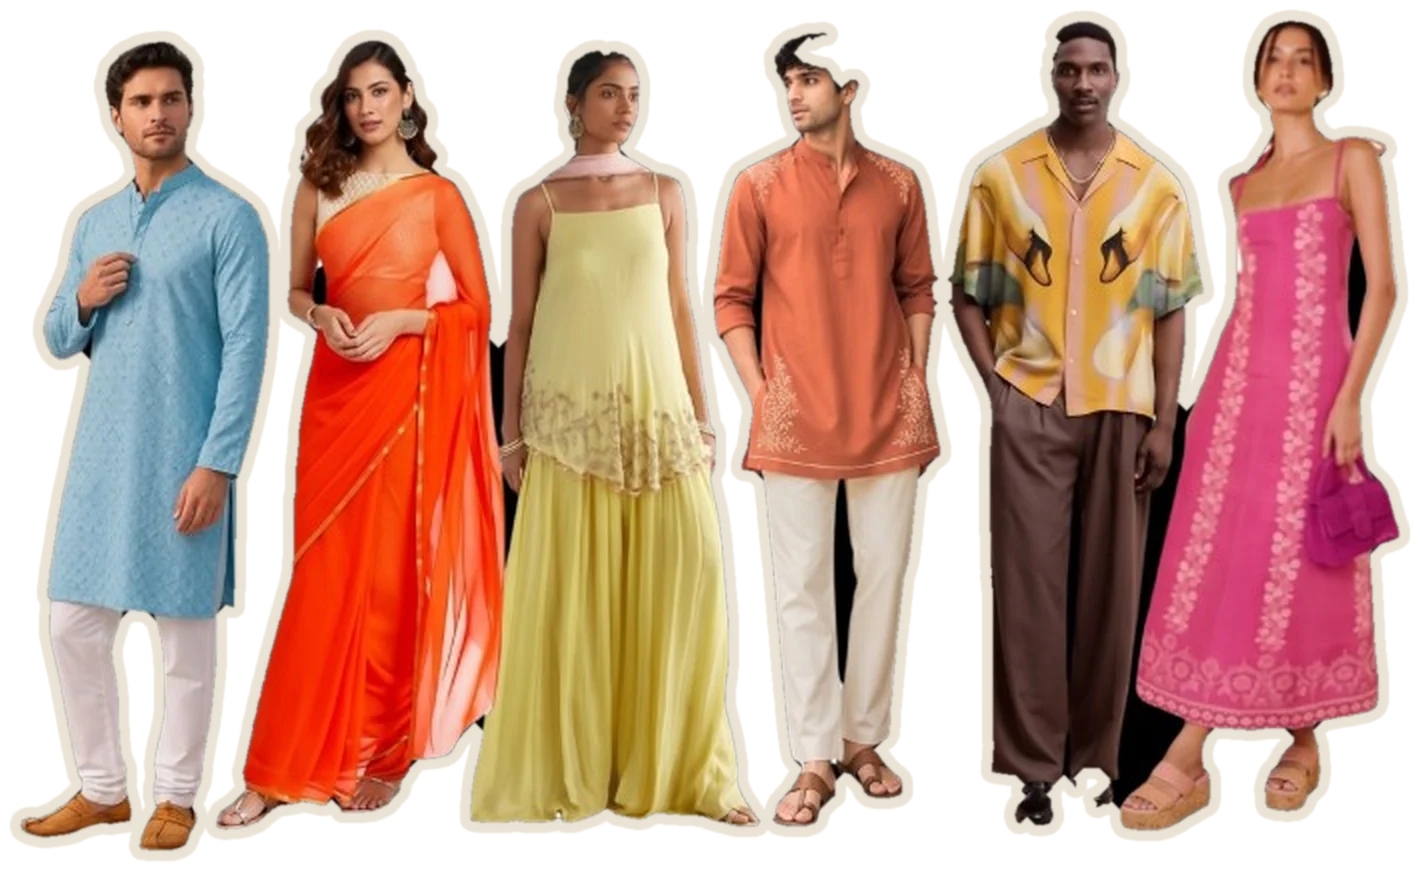
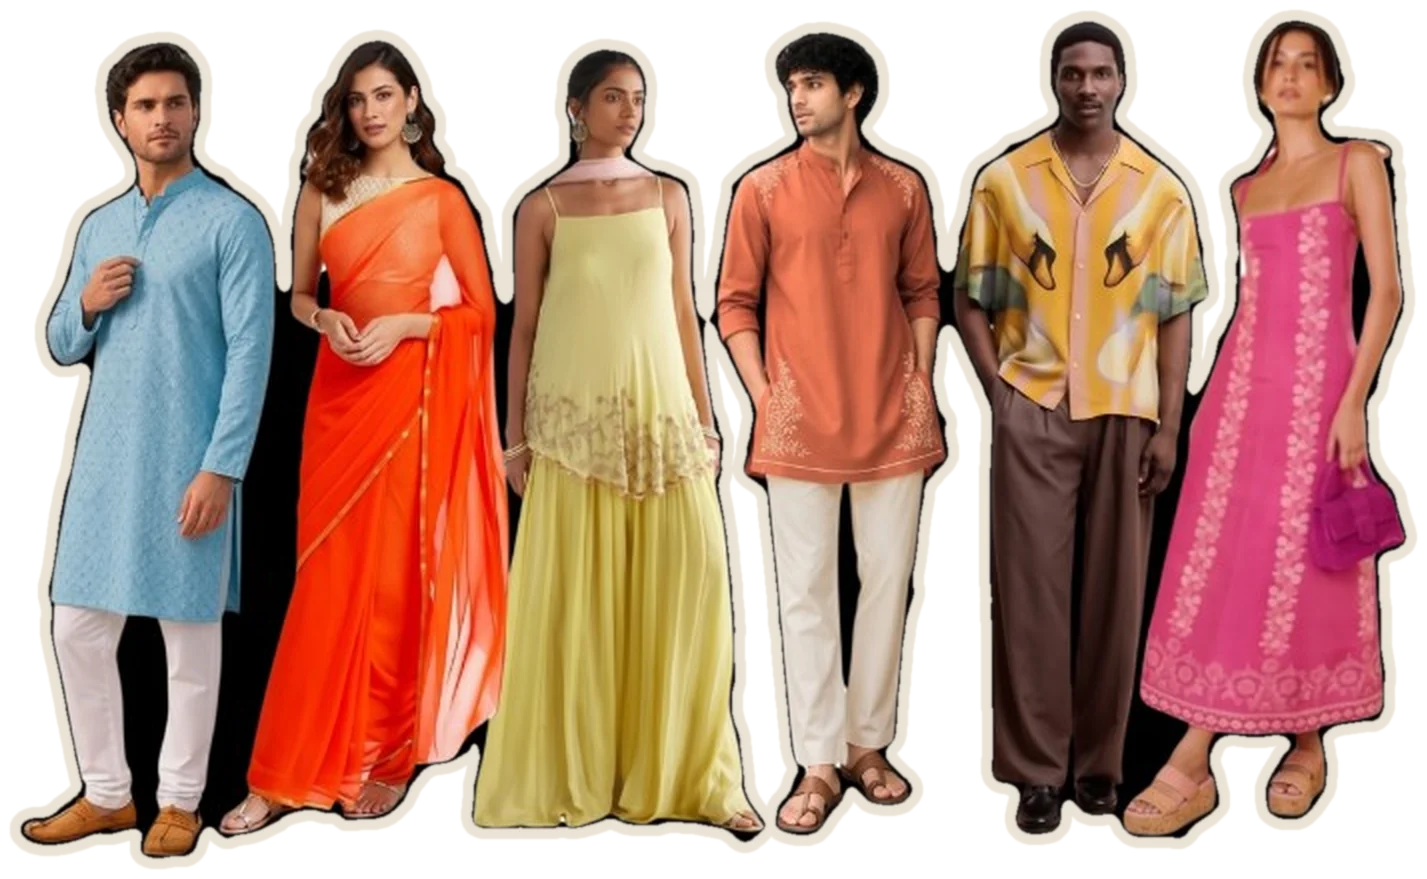
Redo Ganesh Puja & Haldi outfit cutout keeping hair

diff --git a/index.html b/index.html
@@ -982,7 +982,7 @@ picture{margin-block:clamp(52px,8vw,104px);}
 </article>
 <article class="leg" data-tab="Ganesh Puja &amp; Haldi">
 <div class="leg-body">
-<picture><source srcset="img/look-haldi-sm.webp?v=2 900w, img/look-haldi.webp?v=2 1420w" sizes="(max-width:760px) 100vw, 44rem" type="image/webp"><img src="img/look-haldi.png?v=2" width="900" height="552" decoding="async" alt="Six guests in playful Indo-western outfits in bright, solid colors."></picture>
+<picture><source srcset="img/look-haldi-sm.webp?v=3 900w, img/look-haldi.webp?v=3 1420w" sizes="(max-width:760px) 100vw, 44rem" type="image/webp"><img src="img/look-haldi.png?v=3" width="900" height="554" decoding="async" alt="Six guests in playful Indo-western outfits in bright, solid colors."></picture>
 <ul class="swatches" aria-label="Suggested colors"><li style="--c:#D94678"></li><li style="--c:#F46860"></li><li style="--c:#F57E59"></li><li style="--c:#DFAA50"></li><li style="--c:#D8D086"></li><li style="--c:#B4EF90"></li><li style="--c:#75D9DF"></li><li style="--c:#4981FD"></li></ul>
 <p class="when">Semi-Formal Western or Indian</p>
 <ul class="gems"><li>Playful Indo-western outfits.</li><li>Bright, solid colors encouraged. Dress for sunshine!</li><li>Wear shoes you feel comfy walking in. Avoid stiletto heels.</li></ul>
